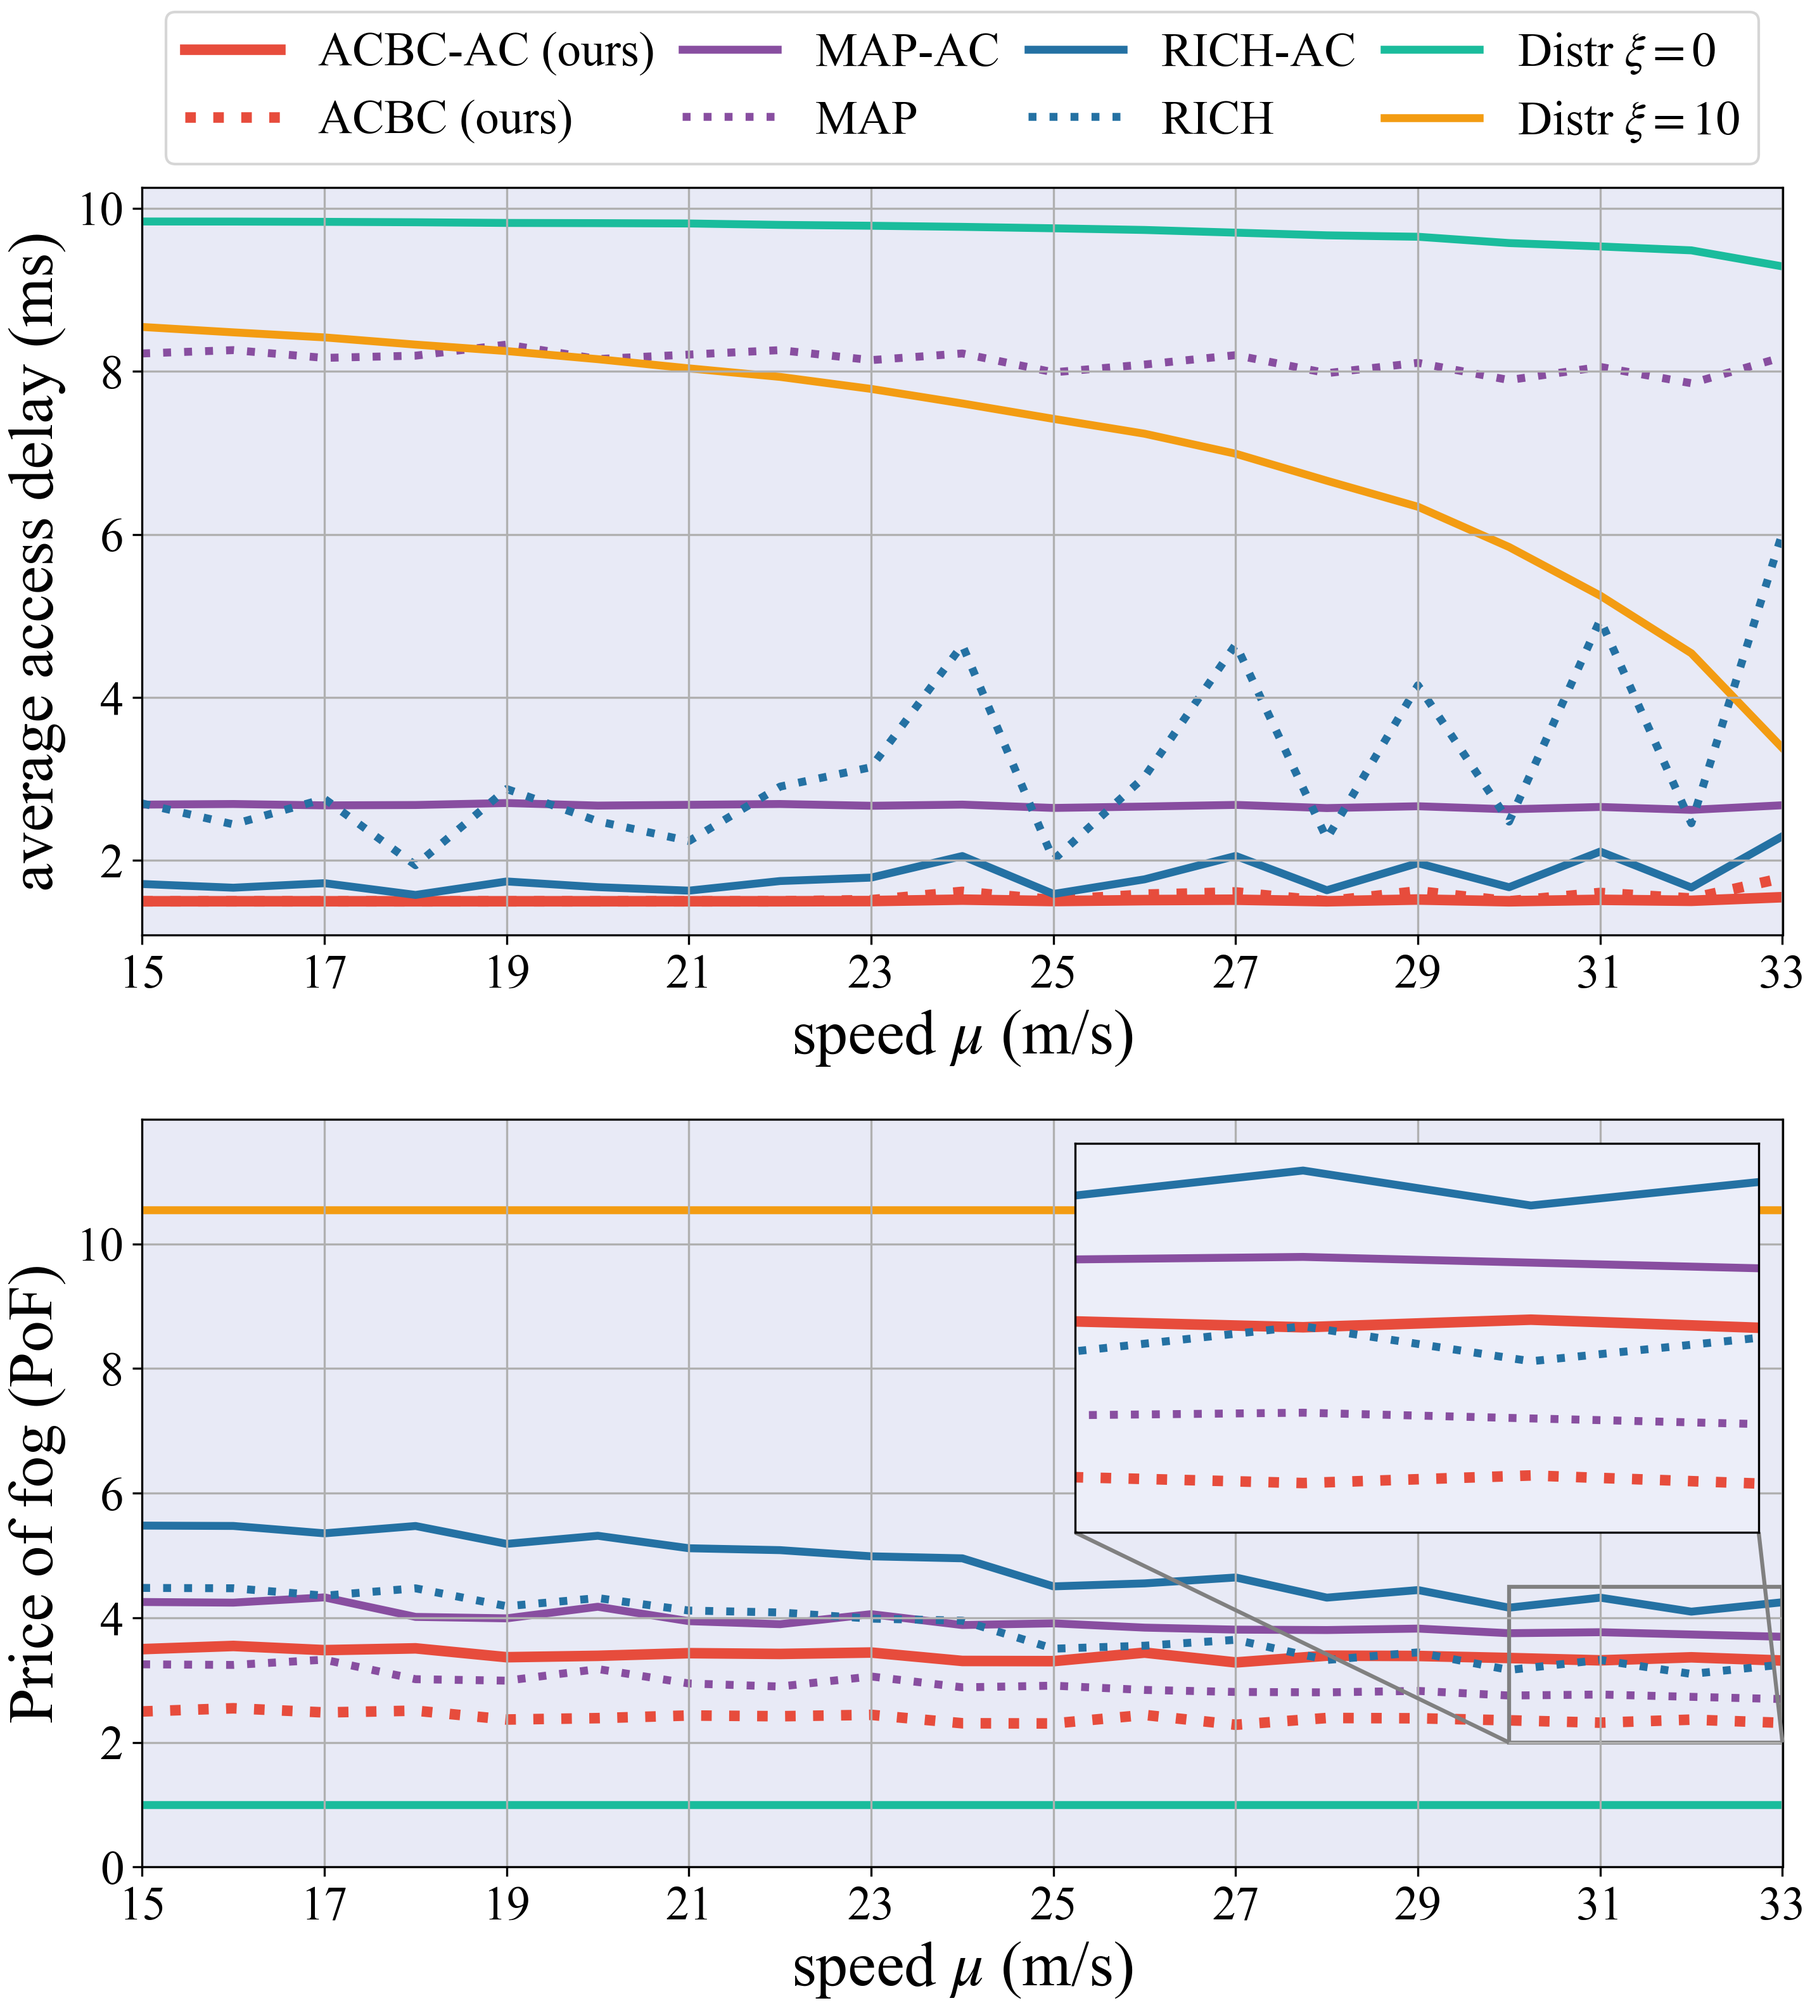
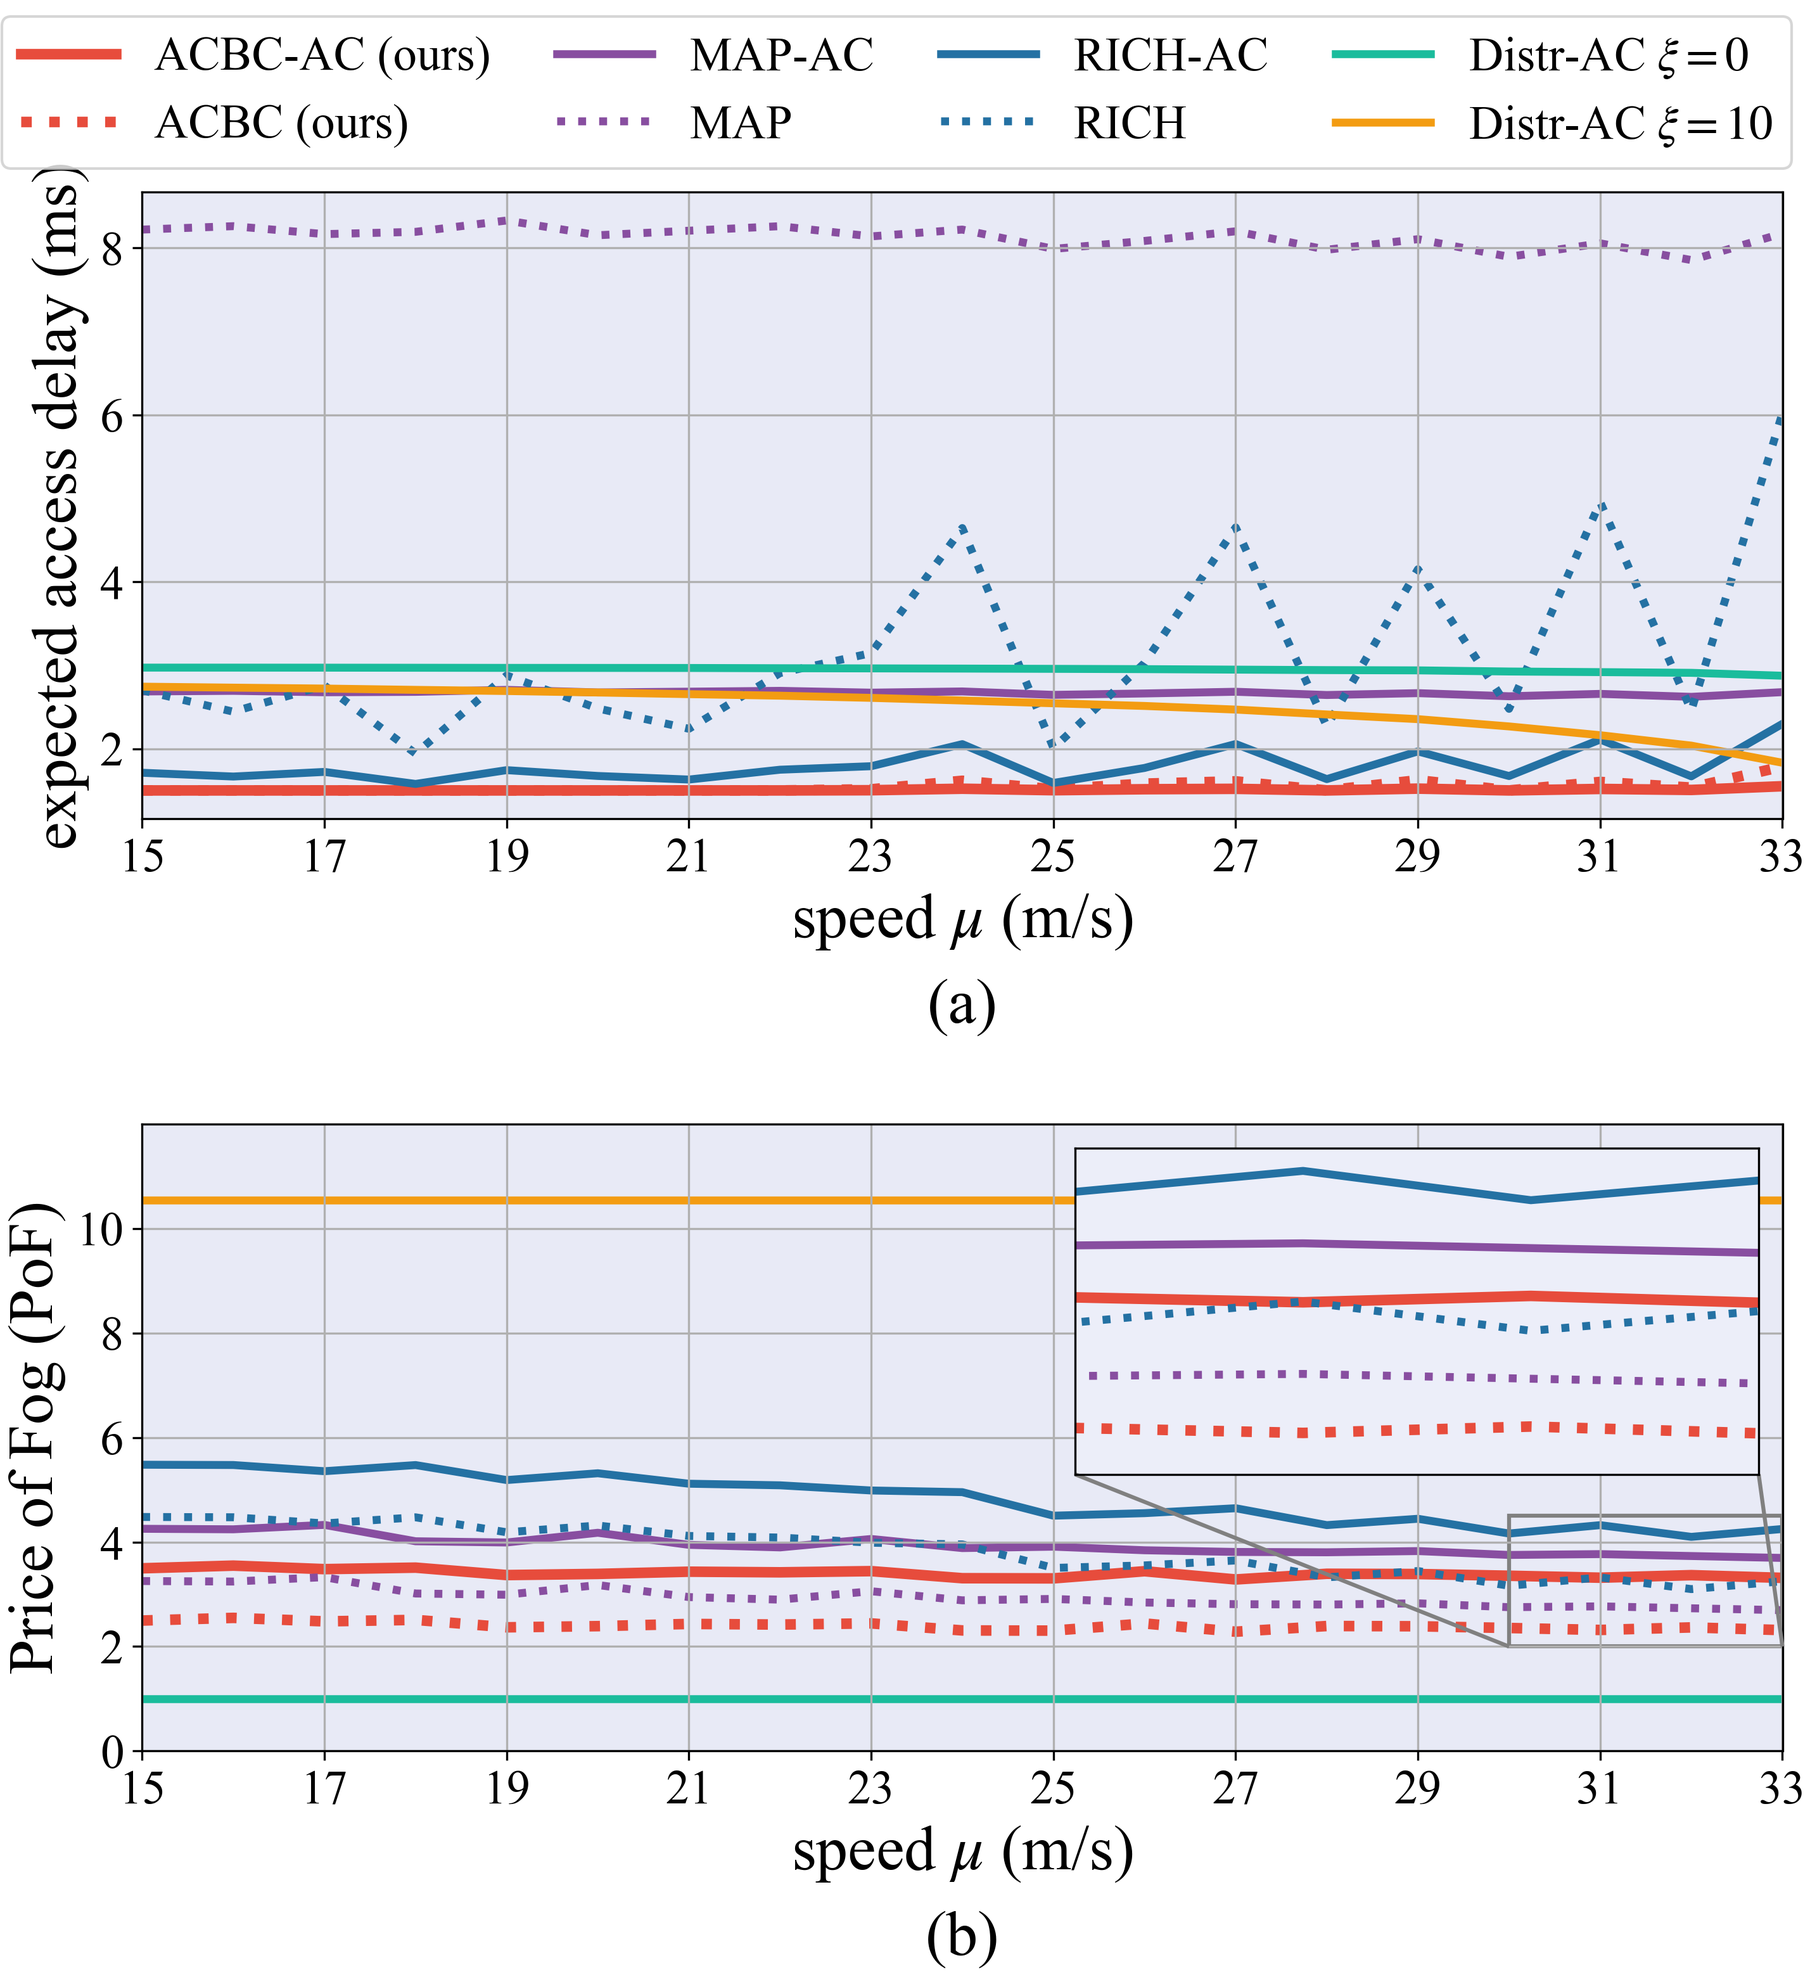
Init

diff --git a/src/utility/plot_both.py b/src/utility/plot_both.py
@@ -41,9 +41,9 @@ delay_RICH = hit_RICH * delay_EN + (1-hit_RICH) * delay_CS
 delay_RICH_AC = hit_RICH * delay_EN + (1-hit_RICH) * delay_AC
 delay_ACBC = hit_ACBC * delay_EN + (1-hit_ACBC) * delay_CS
 delay_ACBC_AC = hit_ACBC * delay_EN + (1-hit_ACBC) * delay_AC
-delay_dsrb_0 = hit_dsrb_0 * delay_EN + (1-hit_dsrb_0) * delay_CS
-delay_dsrb_5 = hit_dsrb_5 * delay_EN + (1-hit_dsrb_5) * delay_CS
-delay_dsrb_10 = hit_dsrb_10 * delay_EN + (1-hit_dsrb_10) * delay_CS
+delay_dsrb_0 = hit_dsrb_0 * delay_EN + (1-hit_dsrb_0) * delay_AC
+delay_dsrb_5 = hit_dsrb_5 * delay_EN + (1-hit_dsrb_5) * delay_AC
+delay_dsrb_10 = hit_dsrb_10 * delay_EN + (1-hit_dsrb_10) * delay_AC
 
 
 PoF_MAP = [data_MAP.loc[data_MAP['speed_mu'] == i].iloc[0]['avg_PoF'] for i in x_axis]
@@ -70,7 +70,7 @@ plt.rcParams['font.family'] = 'Times New Roman'
 plt.rcParams['mathtext.fontset'] = 'stix'  # ['dejavusans', 'dejavuserif', 'cm', 'stix', 'stixsans', 'custom']
 
 plt.rc('font', size=SMALL_SIZE)  # controls default text sizes
-plt.rc('axes', titlesize=SMALL_SIZE)  # fontsize of the axes title
+plt.rc('axes', titlesize=BIGGER_SIZE)  # fontsize of the axes title
 plt.rc('axes', labelsize=BIGGER_SIZE)  # fontsize of the x and y labels
 plt.rc('xtick', labelsize=SMALL_SIZE)  # fontsize of the tick labels
 plt.rc('ytick', labelsize=SMALL_SIZE)  # fontsize of the tick labels
@@ -90,16 +90,18 @@ axs[0].plot(x_axis, delay_MAP_AC, color='#884EA0', linewidth=3.0, label='MAP-AC'
 axs[0].plot(x_axis, delay_MAP, color='#884EA0', linewidth=3.0, label='MAP', linestyle=':', zorder=0)
 axs[0].plot(x_axis, delay_RICH_AC, color='#2471A3', linewidth=3.0, label='RICH-AC', zorder=0)
 axs[0].plot(x_axis, delay_RICH, color='#2471A3', linewidth=3.0, label='RICH', linestyle=':', zorder=0)
-axs[0].plot(x_axis, delay_dsrb_0, color='#1ABC9C', linewidth=3.0, label=r"Distr $\xi=0$", zorder=0)
-axs[0].plot(x_axis, delay_dsrb_10, color='#F39C12', linewidth=3.0, label=r"Distr $\xi=10$", zorder=0)
+axs[0].plot(x_axis, delay_dsrb_0, color='#1ABC9C', linewidth=3.0, label=r"Distr-AC $\xi=0$", zorder=0)
+axs[0].plot(x_axis, delay_dsrb_10, color='#F39C12', linewidth=3.0, label=r"Distr-AC $\xi=10$", zorder=0)
 
-axs[0].legend(ncol=4, bbox_to_anchor=(0, 1, 1, 1), mode='expand', loc=3)
+axs[0].legend(ncol=4, bbox_to_anchor=(-0.1, 1, 1.12, 1), mode='expand', loc=3)
 
 axs[0].set_xlabel('speed $\mu$ (m/s)')
-axs[0].set_ylabel('average access delay (ms)')
+axs[0].set_ylabel('expected access delay (ms)')
 
 axs[0].grid()
 axs[0].set_facecolor('#E8EAF6')
+
+axs[0].set_title('(a)', y=-0.35)
 
 # -------------------------------
 axs[1].set_xlim(15, 33)
@@ -113,14 +115,15 @@ axs[1].plot(x_axis, PoF_MAP_AC, color='#884EA0', linewidth=3.0, label='MAP-AC', 
 axs[1].plot(x_axis, PoF_MAP, color='#884EA0', linewidth=3.0, label='MAP', linestyle=':', zorder=0)
 axs[1].plot(x_axis, PoF_RICH_AC, color='#2471A3', linewidth=3.0, label='RICH-AC', zorder=0)
 axs[1].plot(x_axis, PoF_RICH, color='#2471A3', linewidth=3.0, label='RICH', linestyle=':', zorder=0)
-axs[1].plot(x_axis, PoF_dsrb_0, color='#1ABC9C', linewidth=3.0, label=r"Distr $\xi=0$", zorder=0)
-axs[1].plot(x_axis, PoF_dsrb_10, color='#F39C12', linewidth=3.0, label=r"Distr $\xi=10$", zorder=0)
+axs[1].plot(x_axis, PoF_dsrb_0, color='#1ABC9C', linewidth=3.0, label=r"Distr-AC $\xi=0$", zorder=0)
+axs[1].plot(x_axis, PoF_dsrb_10, color='#F39C12', linewidth=3.0, label=r"Distr-AC $\xi=10$", zorder=0)
 
 axs[1].set_xlabel('speed $\mu$ (m/s)')
-axs[1].set_ylabel('Price of fog (PoF)')
+axs[1].set_ylabel('Price of Fog (PoF)')
 
 axs[1].grid()
 axs[1].set_facecolor('#E8EAF6')
+axs[1].set_title('(b)', y=-0.35)
 
 # -------------------------------
 # Picture in picture
@@ -132,8 +135,8 @@ axins.plot(x_axis, PoF_MAP_AC, color='#884EA0', linewidth=3.0, label='MAP-AC', z
 axins.plot(x_axis, PoF_MAP, color='#884EA0', linewidth=3.0, label='MAP', linestyle=':', zorder=0)
 axins.plot(x_axis, PoF_RICH_AC, color='#2471A3', linewidth=3.0, label='RICH-AC', zorder=0)
 axins.plot(x_axis, PoF_RICH, color='#2471A3', linewidth=3.0, label='RICH', linestyle=':', zorder=0)
-axins.plot(x_axis, PoF_dsrb_0, color='#1ABC9C', linewidth=3.0, label=r"Distr $\xi=0$", zorder=0)
-axins.plot(x_axis, PoF_dsrb_10, color='#F39C12', linewidth=3.0, label=r"Distr $\xi=10$", zorder=0)
+axins.plot(x_axis, PoF_dsrb_0, color='#1ABC9C', linewidth=3.0, label=r"Distr-AC $\xi=0$", zorder=0)
+axins.plot(x_axis, PoF_dsrb_10, color='#F39C12', linewidth=3.0, label=r"Distr-AC $\xi=10$", zorder=0)
 axins.set_xlim(30, 33)
 axins.set_ylim(2, 4.5)
 
